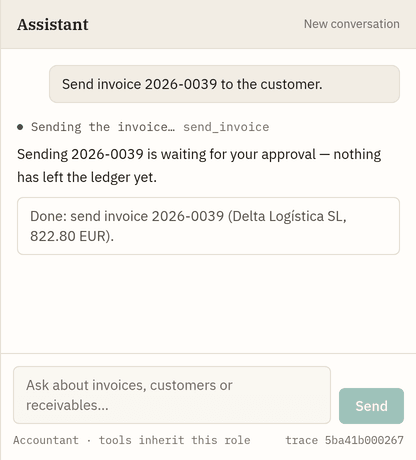
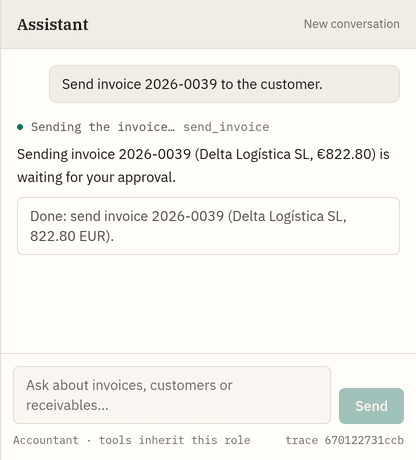
docs: recapture the screenshot tour against a real model
The first pass drove /api/chat with a scripted local endpoint because no
provider key was available. These are the same twelve captures taken against
gpt-4o-mini: the model chose its own tools and wrote its own prose, so the
usage page now shows the pinned model id and real per-call latencies, and the
bulk-cancellation shot is a model genuinely issuing two writes in one turn.

Changed region(s): [[0.0312, 0.3043, 0.9375, 0.3957], [0.7812, 0.9435, 0.9688, 0.9739], [0.0312, 0.2739, 0.0625, 0.3043]]

diff --git a/README.md b/README.md
@@ -31,8 +31,9 @@ The golden rule: **the system prompt can ask for good behavior; only the server 
 ## What it looks like
 
 Every screenshot below is the running app against the seeded ledger — around 40 invoices, the three
-demo users, the real policy file. The figures come from tool calls against the API, the approval
-summaries are written by the server, and the refusals are the gate's own words.
+demo users, the real policy file, `gpt-4o-mini` behind `/api/chat`. Nothing is staged: the model
+picked its own tools, the figures came back from the API, the approval summaries are written by the
+server, and the refusals are the gate's own words.
 
 ### The ledger
 
@@ -85,9 +86,10 @@ and the model is left to explain a decision it did not make.
 
 ![A blocked card reading "cancel_invoice is not permitted for this user (write role=Viewer → deny)"](docs/screenshots/assistant-policy-denied.png)
 
-Asked for a bulk change, the model can iterate all it likes: the per-turn write limit stops the
-second call before it reaches the ledger, and the first is still only a proposal. This is what stops
-a prompt injection carried inside invoice data.
+Asked for two cancellations at once, the model duly issued two tool calls. The per-turn write limit
+stopped the second before it reached the ledger, and the first is still only a proposal — waiting on
+an Admin, because an Accountant cannot cancel. This is what stops a prompt injection carried inside
+invoice data.
 
 ![Two cancel_invoice calls, the second blocked by the one-change-per-turn limit](docs/screenshots/assistant-write-limit-blocked.png)
 
